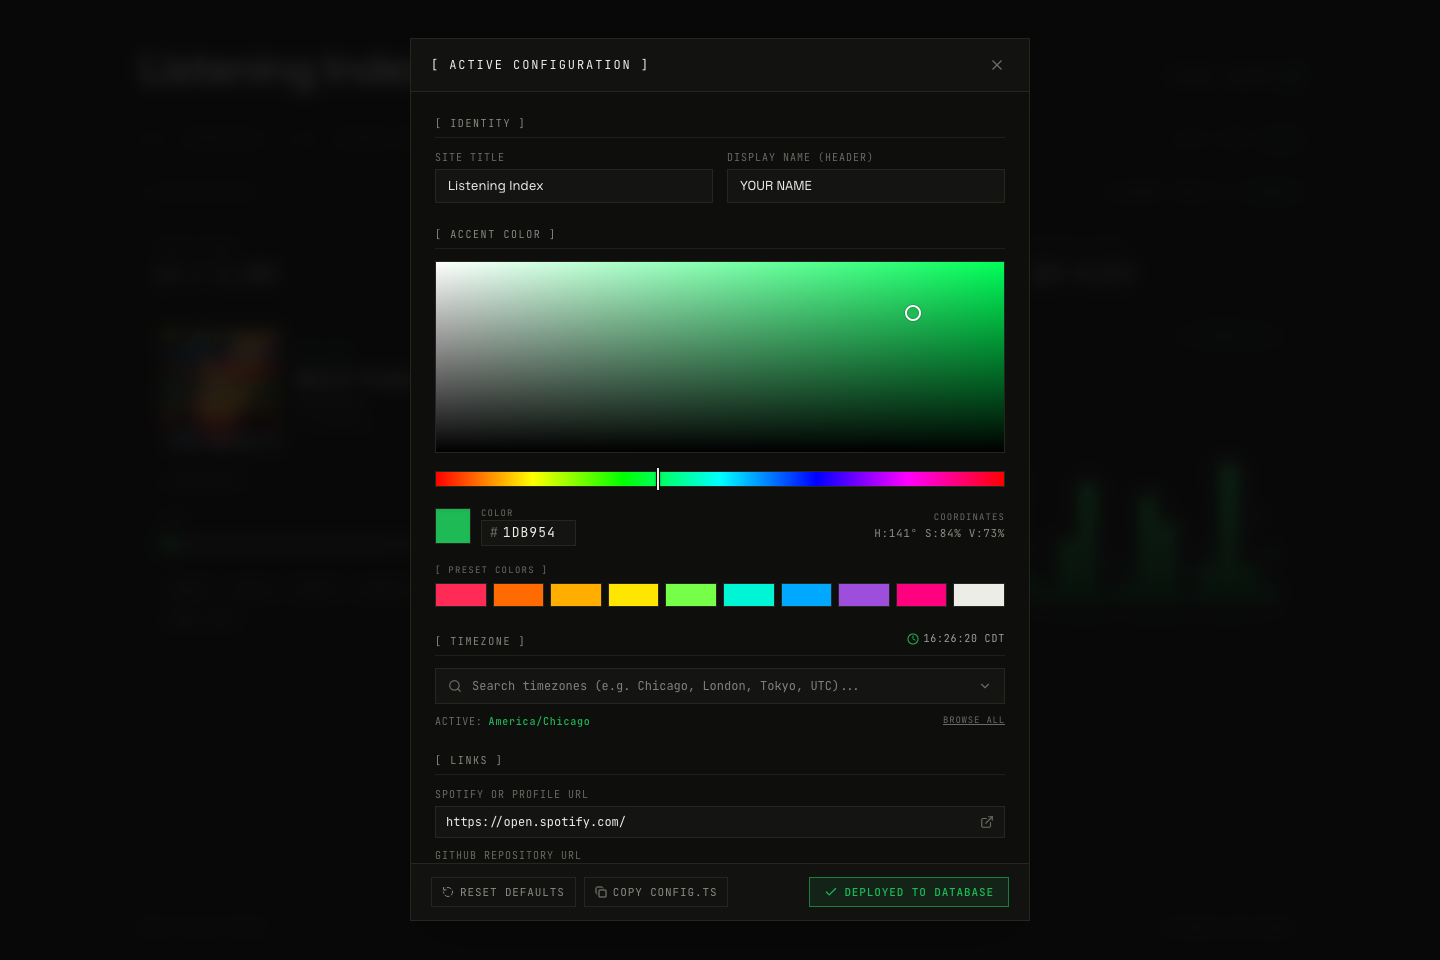
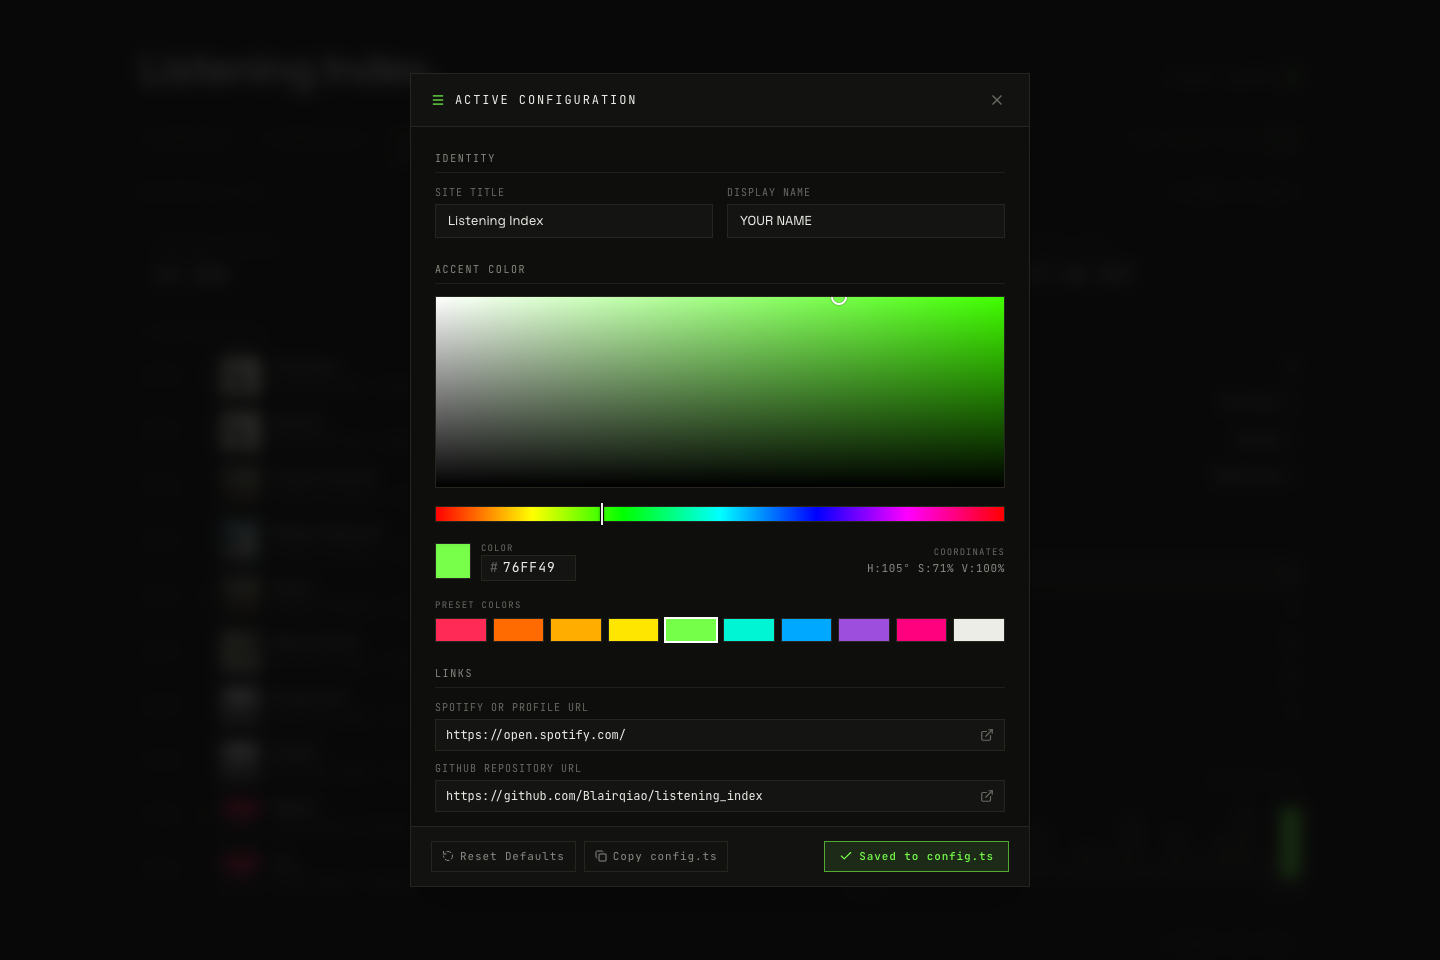
refactor: moved components into respective folders, readme fixup

diff --git a/test/live-player-ui.test.ts b/test/live-player-ui.test.ts
@@ -26,7 +26,7 @@ test("PlayerContext exports selectedContext, selectContext, contextName, and use
 });
 
 test("LivePlayerView renders the context selector with Auto Play, user playlists, and contextName", () => {
-  const livePlayerPath = path.resolve(__dirname, "../src/components/views/LivePlayerView.tsx");
+  const livePlayerPath = path.resolve(__dirname, "../src/components/views/live-player-view/LivePlayerView.tsx");
   const content = fs.readFileSync(livePlayerPath, "utf-8");
 
   assert.ok(
@@ -61,7 +61,7 @@ test("ListeningView and LivePlayerView prevent stacked view controls from gettin
     "ListeningView must adapt container height for LivePlayerView to prevent bounds clipping on desktop"
   );
 
-  const livePlayerPath = path.resolve(__dirname, "../src/components/views/LivePlayerView.tsx");
+  const livePlayerPath = path.resolve(__dirname, "../src/components/views/live-player-view/LivePlayerView.tsx");
   const livePlayerContent = fs.readFileSync(livePlayerPath, "utf-8");
 
   assert.ok(
@@ -74,7 +74,7 @@ test("ListeningView and LivePlayerView prevent stacked view controls from gettin
 });
 
 test("AC-1: LivePlayerView renders device status and context selector on a unified row", () => {
-  const livePlayerPath = path.resolve(__dirname, "../src/components/views/LivePlayerView.tsx");
+  const livePlayerPath = path.resolve(__dirname, "../src/components/views/live-player-view/LivePlayerView.tsx");
   const content = fs.readFileSync(livePlayerPath, "utf-8");
 
   // Must not have a separate dedicated border-b row for CONTEXT:
@@ -85,7 +85,7 @@ test("AC-1: LivePlayerView renders device status and context selector on a unifi
 });
 
 test("AC-2: LivePlayerView playlist selector dropdown uses scrollbar-hidden", () => {
-  const livePlayerPath = path.resolve(__dirname, "../src/components/views/LivePlayerView.tsx");
+  const livePlayerPath = path.resolve(__dirname, "../src/components/views/live-player-view/LivePlayerView.tsx");
   const content = fs.readFileSync(livePlayerPath, "utf-8");
 
   assert.ok(

diff --git a/test/monolithic-file-refactoring.test.ts b/test/monolithic-file-refactoring.test.ts
@@ -71,9 +71,9 @@ test("AC-2: cadence query and bucket builder are extracted to src/lib/db/queries
   );
 });
 
-test("AC-3: SpectrumCanvas is extracted to src/components/live-player-view/SpectrumCanvas.tsx", async () => {
-  const spectrumFile = path.join(root, "src/components/live-player-view/SpectrumCanvas.tsx");
-  assert.ok(fs.existsSync(spectrumFile), "src/components/live-player-view/SpectrumCanvas.tsx must exist");
+test("AC-3: SpectrumCanvas is extracted to src/components/views/live-player-view/SpectrumCanvas.tsx", async () => {
+  const spectrumFile = path.join(root, "src/components/views/live-player-view/SpectrumCanvas.tsx");
+  assert.ok(fs.existsSync(spectrumFile), "src/components/views/live-player-view/SpectrumCanvas.tsx must exist");
 
   const spectrumContent = fs.readFileSync(spectrumFile, "utf-8");
   assert.ok(
@@ -81,13 +81,13 @@ test("AC-3: SpectrumCanvas is extracted to src/components/live-player-view/Spect
     "SpectrumCanvas.tsx must export SpectrumCanvas"
   );
 
-  const livePlayerContent = fs.readFileSync(path.join(root, "src/components/views/LivePlayerView.tsx"), "utf-8");
+  const livePlayerContent = fs.readFileSync(path.join(root, "src/components/views/live-player-view/LivePlayerView.tsx"), "utf-8");
   assert.ok(
     livePlayerContent.includes("SpectrumCanvas"),
     "LivePlayerView.tsx must import SpectrumCanvas"
   );
   assert.ok(
-    livePlayerContent.includes("./live-player-view/SpectrumCanvas") || livePlayerContent.includes("@/components/live-player-view/SpectrumCanvas"),
+    livePlayerContent.includes("./SpectrumCanvas") || livePlayerContent.includes("./live-player-view/SpectrumCanvas") || livePlayerContent.includes("@/components/views/live-player-view/SpectrumCanvas"),
     "LivePlayerView.tsx must import SpectrumCanvas from dedicated component file"
   );
 });

diff --git a/test/part-4-cleanup.test.ts b/test/part-4-cleanup.test.ts
@@ -68,27 +68,27 @@ test("AC-2: CustomizationModal omits manual timezone selection in favor of autom
   );
 });
 
-test("AC-3: SessionView decomposes SessionHistogram and SessionAnalysisPanel into src/components/session-view/", () => {
+test("AC-3: SessionView decomposes SessionHistogram and SessionAnalysisPanel into src/components/views/session-view/", () => {
   const histPath = path.join(
     root,
-    "src/components/session-view/SessionHistogram.tsx"
+    "src/components/views/session-view/SessionHistogram.tsx"
   );
   const analysisPath = path.join(
     root,
-    "src/components/session-view/SessionAnalysisPanel.tsx"
+    "src/components/views/session-view/SessionAnalysisPanel.tsx"
   );
 
   assert.ok(
     fs.existsSync(histPath),
-    "SessionHistogram.tsx must exist in src/components/session-view/"
+    "SessionHistogram.tsx must exist in src/components/views/session-view/"
   );
   assert.ok(
     fs.existsSync(analysisPath),
-    "SessionAnalysisPanel.tsx must exist in src/components/session-view/"
+    "SessionAnalysisPanel.tsx must exist in src/components/views/session-view/"
   );
 
   const sessionViewSource = fs.readFileSync(
-    path.join(root, "src/components/views/SessionView.tsx"),
+    path.join(root, "src/components/views/session-view/SessionView.tsx"),
     "utf-8"
   );
   assert.ok(

diff --git a/test/deduplication-and-consolidation.test.ts b/test/deduplication-and-consolidation.test.ts
@@ -62,7 +62,7 @@ test("AC-3: formatDurationMs in format-utils replaces msToClock in LivePlayerVie
     "src/lib/format-utils.ts must export formatDurationMs"
   );
 
-  const livePlayerContent = fs.readFileSync(path.join(root, "src/components/views/LivePlayerView.tsx"), "utf-8");
+  const livePlayerContent = fs.readFileSync(path.join(root, "src/components/views/live-player-view/LivePlayerView.tsx"), "utf-8");
   assert.ok(
     !livePlayerContent.includes("function msToClock"),
     "LivePlayerView.tsx must not declare msToClock"
@@ -127,7 +127,7 @@ test("AC-6: Canonical types and components use Session* and topTrack", () => {
   assert.ok(typesContent.includes("SessionRecord") || typesContent.includes("SessionBlock"), "src/lib/types.ts must export SessionRecord or SessionBlock");
   assert.ok(typesContent.includes("SessionAnalysis"), "src/lib/types.ts must export SessionAnalysis");
 
-  const sessionViewContent = fs.readFileSync(path.join(root, "src/components/views/SessionView.tsx"), "utf-8");
+  const sessionViewContent = fs.readFileSync(path.join(root, "src/components/views/session-view/SessionView.tsx"), "utf-8");
   assert.ok(
     !sessionViewContent.includes("// Top Song"),
     "SessionView.tsx must not contain '// Top Song' comment"

diff --git a/test/player-onboarding-link.test.ts b/test/player-onboarding-link.test.ts
@@ -57,7 +57,7 @@ test("AC-3: PlayerContext implements idempotent connectPlayer and non-blocking a
 });
 
 test("AC-4: LivePlayerView has no link button and notifies user to link Spotify ID via Spotify modal (S)", () => {
-  const livePlayerPath = path.resolve(__dirname, "../src/components/views/LivePlayerView.tsx");
+  const livePlayerPath = path.resolve(__dirname, "../src/components/views/live-player-view/LivePlayerView.tsx");
   const content = fs.readFileSync(livePlayerPath, "utf-8");
 
   // Must not render a [ LINK SPOTIFY ] or [ LINK ] button
@@ -91,7 +91,7 @@ test("AC-5: handleTogglePlay supports API fallback with track URI when SDK state
     "handleTogglePlay must call Spotify play endpoint when player buffer is empty"
   );
 
-  const livePlayerPath = path.resolve(__dirname, "../src/components/views/LivePlayerView.tsx");
+  const livePlayerPath = path.resolve(__dirname, "../src/components/views/live-player-view/LivePlayerView.tsx");
   const liveContent = fs.readFileSync(livePlayerPath, "utf-8");
   assert.ok(
     !liveContent.includes("handleTogglePlay(displayTrack.trackId"),

diff --git a/src/components/ListeningView.tsx b/src/components/ListeningView.tsx
@@ -6,10 +6,10 @@ import { ListeningHeader } from "@/components/listening-view/ListeningHeader";
 import { ModeTabs } from "@/components/listening-view/ModeTabs";
 import { ControlRow } from "@/components/listening-view/ControlRow";
 import { MetricRibbon } from "@/components/listening-view/MetricRibbon";
-import { LivePlayerView } from "@/components/views/LivePlayerView";
+import { LivePlayerView } from "@/components/views/live-player-view/LivePlayerView";
 import { OverviewView } from "@/components/views/OverviewView";
 import { StreamLogView } from "@/components/views/StreamLogView";
-import { SessionView } from "@/components/views/SessionView";
+import { SessionView } from "@/components/views/session-view/SessionView";
 import { ListeningFooter } from "@/components/listening-view/ListeningFooter";
 const CustomizationModal = dynamic(
   () => import("@/components/modals/customization-modal/CustomizationModal").then((mod) => mod.CustomizationModal),

diff --git a/test/audit-remediation.test.ts b/test/audit-remediation.test.ts
@@ -206,9 +206,9 @@ test("TASK-5: Duplicate query param useEffect consolidated, labels updated, hint
     "ListeningView must have exactly 1 window.location.search reader effect"
   );
 
-  const sessionView = fs.readFileSync(path.join(root, "src/components/views/SessionView.tsx"), "utf-8");
-  const analysisPanel = fs.existsSync(path.join(root, "src/components/session-view/SessionAnalysisPanel.tsx"))
-    ? fs.readFileSync(path.join(root, "src/components/session-view/SessionAnalysisPanel.tsx"), "utf-8")
+  const sessionView = fs.readFileSync(path.join(root, "src/components/views/session-view/SessionView.tsx"), "utf-8");
+  const analysisPanel = fs.existsSync(path.join(root, "src/components/views/session-view/SessionAnalysisPanel.tsx"))
+    ? fs.readFileSync(path.join(root, "src/components/views/session-view/SessionAnalysisPanel.tsx"), "utf-8")
     : "";
   const combinedSession = sessionView + analysisPanel;
   assert.ok(

diff --git a/src/components/views/live-player-view/LivePlayerView.tsx b/src/components/views/live-player-view/LivePlayerView.tsx
@@ -4,7 +4,7 @@ import React, { useCallback, useState } from "react";
 import { useConfig } from "@/context/ConfigContext";
 import { usePlayer } from "@/context/PlayerContext";
 import { formatDurationMs } from "@/lib/format-utils";
-import { SpectrumCanvas, gradientStops } from "../live-player-view/SpectrumCanvas";
+import { SpectrumCanvas, gradientStops } from "./SpectrumCanvas";
 
 export { gradientStops };
 
@@ -211,7 +211,7 @@ export const LivePlayerView: React.FC<LivePlayerProps> = ({
 
       {playerStatus === "unlinked" && (
         <div className="flex items-center justify-between gap-2 px-2 py-1 bg-[#141413] border border-[#22221E] text-[#8A8A82] text-[10px] font-mono">
-          <span className="truncate">SPOTIFY NOT LINKED · OPEN SPOTIFY MODAL (S)</span>
+          <span className="truncate">SPOTIFY NOT LINKED · OPEN SPOTIFY MODAL</span>
         </div>
       )}
 

diff --git a/src/components/views/session-view/SessionView.tsx b/src/components/views/session-view/SessionView.tsx
@@ -5,9 +5,9 @@ import type { SessionRecord, SessionAnalysis, PreviousSession } from "@/lib/type
 import { useConfig } from "@/context/ConfigContext";
 import { presentSession, presentSessionHistogram, type PresentedSessionItem } from "@/lib/listening-presentation";
 import { calculateSessions } from "@/lib/session-calculation";
-import { Artwork } from "../Artwork";
-import { SessionHistogram } from "../session-view/SessionHistogram";
-import { SessionAnalysisPanel } from "../session-view/SessionAnalysisPanel";
+import { Artwork } from "../../Artwork";
+import { SessionHistogram } from "./SessionHistogram";
+import { SessionAnalysisPanel } from "./SessionAnalysisPanel";
 
 interface SessionViewProps {
   sessions: SessionRecord[];

diff --git a/test/control-row-refinement.test.ts b/test/control-row-refinement.test.ts
@@ -55,7 +55,7 @@ test("ControlRow component supports dynamic scope labels for Stream Log, Session
 });
 
 test("LivePlayerView houses context selector inside playback controls without redundant middle device band", () => {
-  const livePlayerPath = path.resolve(__dirname, "../src/components/views/LivePlayerView.tsx");
+  const livePlayerPath = path.resolve(__dirname, "../src/components/views/live-player-view/LivePlayerView.tsx");
   const content = fs.readFileSync(livePlayerPath, "utf-8");
 
   // Must not have the old separate "Device & Playback Context Row"

diff --git a/src/app/api/player/current-context/route.ts b/src/app/api/player/current-context/route.ts
@@ -2,7 +2,7 @@ import { NextRequest, NextResponse } from "next/server";
 import { isAuthorizedAdminRequest } from "@/lib/auth-utils";
 import { isDbConfigured } from "@/lib/db";
 import { getStreamLog } from "@/lib/db/queries/stream-log";
-import { DEFAULT_FALLBACK_TRACK } from "@/components/views/LivePlayerView";
+import { DEFAULT_FALLBACK_TRACK } from "@/components/views/live-player-view/LivePlayerView";
 
 export const dynamic = "force-dynamic";
 

diff --git a/src/config.ts b/src/config.ts
@@ -1,9 +1,8 @@
 export const siteConfig = {
   title: "Listening Index",
   ownerName: "YOUR NAME",
-  accentColor: "#76ff49ff",
+  accentColor: "#76FF49",
   siteUrl: "https://open.spotify.com/",
   githubUrl: "https://github.com/Blairqiao/listening_index",
-  timezone: "America/Chicago",
-  livePlayerLayout: "split" as const,
+  livePlayerLayout: "split",
 };
